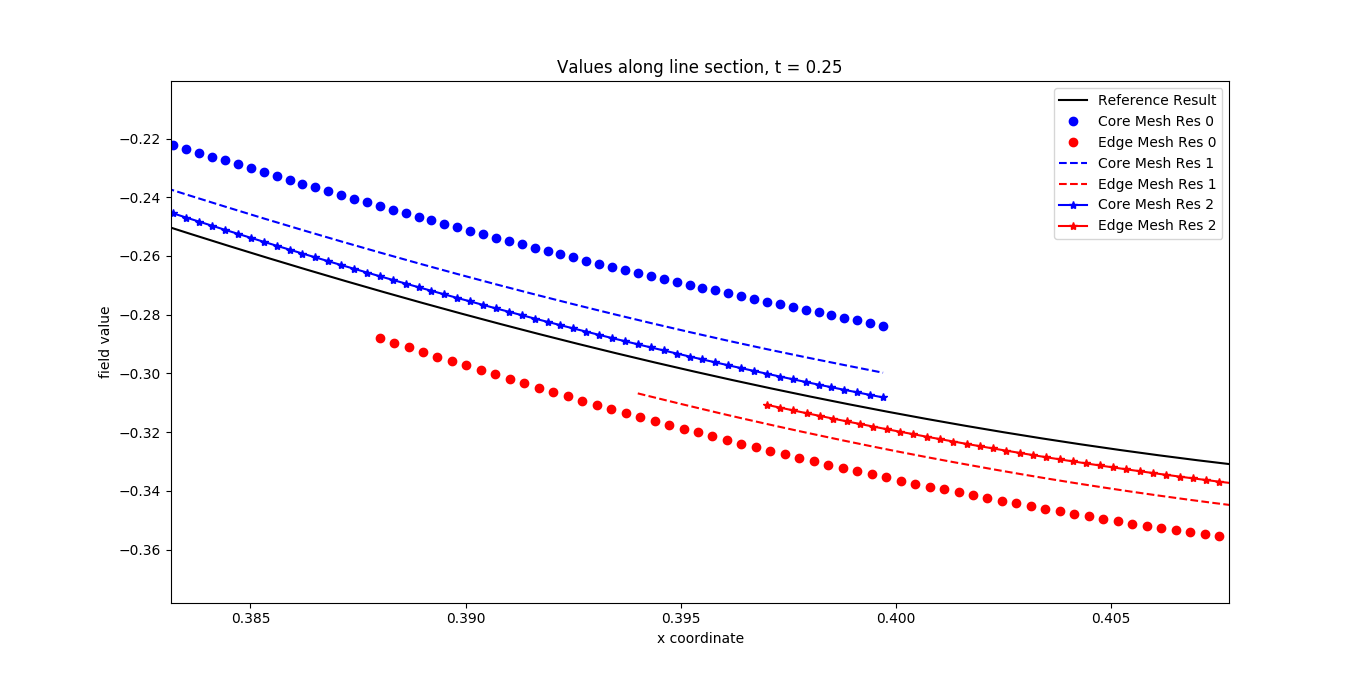
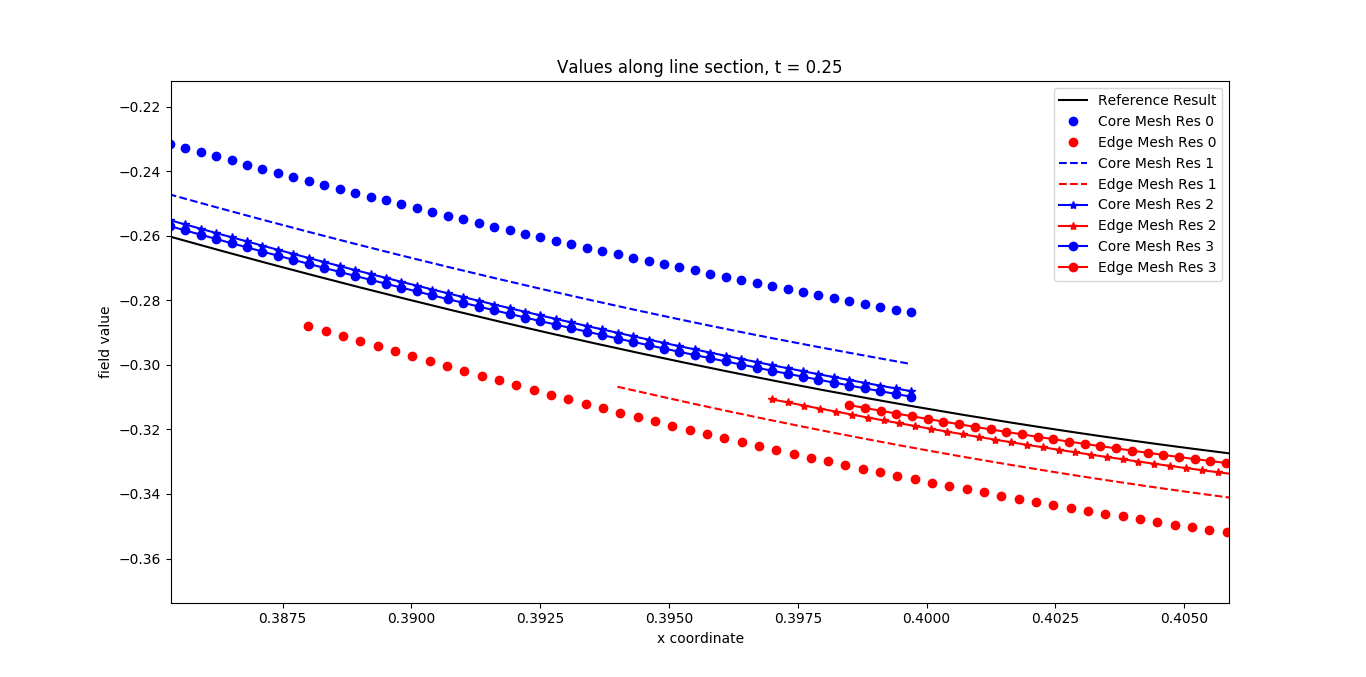
New plots - better results than before

diff --git a/tools/t_0_75_runs/compare_analysis.py b/tools/t_0_75_runs/compare_analysis.py
@@ -49,7 +49,7 @@ def compare_monolithic(res_num, ref_coords, ref_data):
     assert interp_core_f.shape == core_f.shape
 
     print("---------- Monolithic ----------")
-    print("Mesh resolution ({}): Polar result has {} point, PARALLAX result has {} point".format(mesh_res, core_f.size,
+    print("Mesh resolution ({}): Polar result has {} point, PARALLAX result has {} point".format(res_num, core_f.size,
                                                                                                  edge_f.size))
 
     error_edge, ref_sum = 0, 0
@@ -89,7 +89,7 @@ def compare_coupled(res_num, ref_coords, ref_data):
     assert interp_core_f.shape == core_f.shape
 
     print("---------- Coupling ----------")
-    print("Mesh resolution ({}): Polar result has {} point, PARALLAX result has {} point".format(mesh_res, core_f.size,
+    print("Mesh resolution ({}): Polar result has {} point, PARALLAX result has {} point".format(res_num, core_f.size,
                                                                                                  edge_f.size))
 
     # Convert array data to dicts so that reference value can be mapped to points for
@@ -215,11 +215,11 @@ ref_points, ref_field = read_data('./output_ref/polar_ref2.csv')
 print("Reference result has {} points".format(ref_field.size))
 
 # For each mesh resolution, fit data by interpolation and calculate error by L2 norm
-mesh_res = 3
+mesh_res = 4
 
 rmin_core = 0.2
 rmax_core = 0.4
-rmin_edge = [0.388, 0.394, 0.397]
+rmin_edge = [0.388, 0.394, 0.397, 0.3985]
 rmax_edge = 0.5
 
 
@@ -243,7 +243,7 @@ refpts_plot, refv_plot, ref_flux_plot = plot_ref_cross_section(ref_field, ref_po
 # plot
 plt.xlabel('x coordinate')
 plt.ylabel('field value')
-plt.title('Value along line plot, t = 0.75')
+plt.title('Values along line section, t = 0.75')
 
 plt.plot(refpts_plot, refv_plot, 'k-', label="Reference Result", linewidth=1.5)
 
@@ -255,6 +255,10 @@ plt.plot(edgepts_plot[1], edgev_plot[1], 'r--', label="Edge Mesh Res 1")
 
 plt.plot(corepts_plot[2], corev_plot[2], 'b-*', label="Core Mesh Res 2")
 plt.plot(edgepts_plot[2], edgev_plot[2], 'r-*', label="Edge Mesh Res 2")
+
+plt.plot(corepts_plot[3], corev_plot[3], 'b-o', label="Core Mesh Res 3")
+plt.plot(edgepts_plot[3], edgev_plot[3], 'r-o', label="Edge Mesh Res 3")
+
 plt.legend(loc='best')
 plt.show()
 
@@ -278,7 +282,7 @@ for i in range(999):
 
 plt.xlabel('x coordinate')
 plt.ylabel('flux')
-plt.title('Flux along line plot, t = 0.75')
+plt.title('Flux along line section, t = 0.75')
 
 plt.plot(ref_flux_pts, ref_flux_plot, 'k-', label="Reference Result", linewidth=1.5)
 
@@ -290,9 +294,12 @@ plt.plot(edge_flux_pts[1], edge_flux_plot[1], 'r--', label="Edge Mesh Res 1")
 
 plt.plot(core_flux_pts[2], core_flux_plot[2], 'b-*', label="Core Mesh Res 2")
 plt.plot(edge_flux_pts[2], edge_flux_plot[2], 'r-*', label="Edge Mesh Res 2")
+
+plt.plot(core_flux_pts[3], core_flux_plot[3], 'b-o', label="Core Mesh Res 3")
+plt.plot(edge_flux_pts[3], edge_flux_plot[3], 'r-o', label="Edge Mesh Res 3")
+
 plt.legend(loc='best')
 plt.show()
-
 
 err_edge = np.zeros(mesh_res)
 err_core = np.zeros(mesh_res)
@@ -306,9 +313,9 @@ plt.xscale('log')
 plt.yscale('log')
 plt.xlabel('mesh size')
 plt.ylabel('l2 error')
-plt.title('Varying overlap, t = 0.75')
+plt.title('Overlap 2*dx, t = 0.75')
 
-mesh_resolutions = [50, 100, 200]
+mesh_resolutions = [50, 100, 200, 400]
 # # Plot monolithic PARALLAX comparison
 # plt.plot(mesh_resolutions, err_edge, 'rs', label="Edge monolithic", linewidth=2)
 # O1_err_edge = [err_edge[0], err_edge[0]/2, err_edge[0]/4]
@@ -325,9 +332,9 @@ mesh_resolutions = [50, 100, 200]
 
 # Plot PARALLAX - Polar coupled solution comparison
 plt.plot(mesh_resolutions, err_coupling, 'bs', label="Coupling", linewidth=2)
-O1_err_coupling = [err_coupling[0], err_coupling[0]/2, err_coupling[0]/4]
+O1_err_coupling = [err_coupling[0], err_coupling[0]/2, err_coupling[0]/4, err_coupling[0]/8]
 plt.plot(mesh_resolutions, O1_err_coupling, 'b--', label="O(1) Coupling", linewidth=1)
-O2_err_coupling = [err_coupling[0], err_coupling[0]/4, err_coupling[0]/16]
+O2_err_coupling = [err_coupling[0], err_coupling[0]/4, err_coupling[0]/16, err_coupling[0]/64]
 plt.plot(mesh_resolutions, O2_err_coupling, 'b-.', label="O(2) Coupling", linewidth=1)
 
 plt.legend(loc='best')

diff --git a/tools/t_0_50_runs/compare_analysis.py b/tools/t_0_50_runs/compare_analysis.py
@@ -49,7 +49,7 @@ def compare_monolithic(res_num, ref_coords, ref_data):
     assert interp_core_f.shape == core_f.shape
 
     print("---------- Monolithic ----------")
-    print("Mesh resolution ({}): Polar result has {} point, PARALLAX result has {} point".format(mesh_res, core_f.size,
+    print("Mesh resolution ({}): Polar result has {} point, PARALLAX result has {} point".format(res_num, core_f.size,
                                                                                                  edge_f.size))
 
     error_edge, ref_sum = 0, 0
@@ -89,7 +89,7 @@ def compare_coupled(res_num, ref_coords, ref_data):
     assert interp_core_f.shape == core_f.shape
 
     print("---------- Coupling ----------")
-    print("Mesh resolution ({}): Polar result has {} point, PARALLAX result has {} point".format(mesh_res, core_f.size,
+    print("Mesh resolution ({}): Polar result has {} point, PARALLAX result has {} point".format(res_num, core_f.size,
                                                                                                  edge_f.size))
 
     # Convert array data to dicts so that reference value can be mapped to points for
@@ -215,11 +215,11 @@ ref_points, ref_field = read_data('./output_ref/polar_ref2.csv')
 print("Reference result has {} points".format(ref_field.size))
 
 # For each mesh resolution, fit data by interpolation and calculate error by L2 norm
-mesh_res = 3
+mesh_res = 4
 
 rmin_core = 0.2
 rmax_core = 0.4
-rmin_edge = [0.388, 0.394, 0.397]
+rmin_edge = [0.388, 0.394, 0.397, 0.3985]
 rmax_edge = 0.5
 
 
@@ -243,7 +243,7 @@ refpts_plot, refv_plot, ref_flux_plot = plot_ref_cross_section(ref_field, ref_po
 # plot
 plt.xlabel('x coordinate')
 plt.ylabel('field value')
-plt.title('Value along line plot, t = 0.5')
+plt.title('Values along line section, t = 0.5')
 
 plt.plot(refpts_plot, refv_plot, 'k-', label="Reference Result", linewidth=1.5)
 
@@ -255,6 +255,10 @@ plt.plot(edgepts_plot[1], edgev_plot[1], 'r--', label="Edge Mesh Res 1")
 
 plt.plot(corepts_plot[2], corev_plot[2], 'b-*', label="Core Mesh Res 2")
 plt.plot(edgepts_plot[2], edgev_plot[2], 'r-*', label="Edge Mesh Res 2")
+
+plt.plot(corepts_plot[3], corev_plot[3], 'b-o', label="Core Mesh Res 3")
+plt.plot(edgepts_plot[3], edgev_plot[3], 'r-o', label="Edge Mesh Res 3")
+
 plt.legend(loc='best')
 plt.show()
 
@@ -278,7 +282,7 @@ for i in range(999):
 
 plt.xlabel('x coordinate')
 plt.ylabel('flux')
-plt.title('Flux along line plot, t = 0.5')
+plt.title('Flux along line section, t = 0.5')
 
 plt.plot(ref_flux_pts, ref_flux_plot, 'k-', label="Reference Result", linewidth=1.5)
 
@@ -290,9 +294,12 @@ plt.plot(edge_flux_pts[1], edge_flux_plot[1], 'r--', label="Edge Mesh Res 1")
 
 plt.plot(core_flux_pts[2], core_flux_plot[2], 'b-*', label="Core Mesh Res 2")
 plt.plot(edge_flux_pts[2], edge_flux_plot[2], 'r-*', label="Edge Mesh Res 2")
+
+plt.plot(core_flux_pts[3], core_flux_plot[3], 'b-o', label="Core Mesh Res 3")
+plt.plot(edge_flux_pts[3], edge_flux_plot[3], 'r-o', label="Edge Mesh Res 3")
+
 plt.legend(loc='best')
 plt.show()
-
 
 err_edge = np.zeros(mesh_res)
 err_core = np.zeros(mesh_res)
@@ -306,9 +313,9 @@ plt.xscale('log')
 plt.yscale('log')
 plt.xlabel('mesh size')
 plt.ylabel('l2 error')
-plt.title('Varying overlap, t = 0.5')
+plt.title('Overlap 2*dx, t = 0.5')
 
-mesh_resolutions = [50, 100, 200]
+mesh_resolutions = [50, 100, 200, 400]
 # # Plot monolithic PARALLAX comparison
 # plt.plot(mesh_resolutions, err_edge, 'rs', label="Edge monolithic", linewidth=2)
 # O1_err_edge = [err_edge[0], err_edge[0]/2, err_edge[0]/4]
@@ -325,9 +332,9 @@ mesh_resolutions = [50, 100, 200]
 
 # Plot PARALLAX - Polar coupled solution comparison
 plt.plot(mesh_resolutions, err_coupling, 'bs', label="Coupling", linewidth=2)
-O1_err_coupling = [err_coupling[0], err_coupling[0]/2, err_coupling[0]/4]
+O1_err_coupling = [err_coupling[0], err_coupling[0]/2, err_coupling[0]/4, err_coupling[0]/8]
 plt.plot(mesh_resolutions, O1_err_coupling, 'b--', label="O(1) Coupling", linewidth=1)
-O2_err_coupling = [err_coupling[0], err_coupling[0]/4, err_coupling[0]/16]
+O2_err_coupling = [err_coupling[0], err_coupling[0]/4, err_coupling[0]/16, err_coupling[0]/64]
 plt.plot(mesh_resolutions, O2_err_coupling, 'b-.', label="O(2) Coupling", linewidth=1)
 
 plt.legend(loc='best')

diff --git a/tools/t_0_25_runs/compare_analysis.py b/tools/t_0_25_runs/compare_analysis.py
@@ -215,11 +215,11 @@ ref_points, ref_field = read_data('./output_ref/polar_ref2.csv')
 print("Reference result has {} points".format(ref_field.size))
 
 # For each mesh resolution, fit data by interpolation and calculate error by L2 norm
-mesh_res = 3
+mesh_res = 4
 
 rmin_core = 0.2
 rmax_core = 0.4
-rmin_edge = [0.388, 0.394, 0.397]
+rmin_edge = [0.388, 0.394, 0.397, 0.3985]
 rmax_edge = 0.5
 
 
@@ -255,6 +255,10 @@ plt.plot(edgepts_plot[1], edgev_plot[1], 'r--', label="Edge Mesh Res 1")
 
 plt.plot(corepts_plot[2], corev_plot[2], 'b-*', label="Core Mesh Res 2")
 plt.plot(edgepts_plot[2], edgev_plot[2], 'r-*', label="Edge Mesh Res 2")
+
+plt.plot(corepts_plot[3], corev_plot[3], 'b-o', label="Core Mesh Res 3")
+plt.plot(edgepts_plot[3], edgev_plot[3], 'r-o', label="Edge Mesh Res 3")
+
 plt.legend(loc='best')
 plt.show()
 
@@ -290,16 +294,19 @@ plt.plot(edge_flux_pts[1], edge_flux_plot[1], 'r--', label="Edge Mesh Res 1")
 
 plt.plot(core_flux_pts[2], core_flux_plot[2], 'b-*', label="Core Mesh Res 2")
 plt.plot(edge_flux_pts[2], edge_flux_plot[2], 'r-*', label="Edge Mesh Res 2")
+
+plt.plot(core_flux_pts[3], core_flux_plot[3], 'b-o', label="Core Mesh Res 3")
+plt.plot(edge_flux_pts[3], edge_flux_plot[3], 'r-o', label="Edge Mesh Res 3")
+
 plt.legend(loc='best')
 plt.show()
-
 
 err_edge = np.zeros(mesh_res)
 err_core = np.zeros(mesh_res)
 err_coupling = np.zeros(mesh_res)
 for res in range(mesh_res):
     print("Comparing mesh resolution number: {}".format(res))
-    err_edge[res], err_core[res] = compare_monolithic(res, ref_points, ref_field)
+    # err_edge[res], err_core[res] = compare_monolithic(res, ref_points, ref_field)
     err_coupling[res] = compare_coupled(res, ref_points, ref_field)
 
 plt.xscale('log')
@@ -308,26 +315,26 @@ plt.xlabel('mesh size')
 plt.ylabel('l2 error')
 plt.title('Overlap 2*dx, t = 0.25')
 
-mesh_resolutions = [50, 100, 200]
-# Plot monolithic PARALLAX comparison
-plt.plot(mesh_resolutions, err_edge, 'rs', label="Edge monolithic", linewidth=2)
-O1_err_edge = [err_edge[0], err_edge[0]/2, err_edge[0]/4]
-plt.plot(mesh_resolutions, O1_err_edge, 'r--', label="O(1) Edge", linewidth=1)
-O2_err_edge = [err_edge[0], err_edge[0]/4, err_edge[0]/16]
-plt.plot(mesh_resolutions, O2_err_edge, 'r-.', label="O(2) Edge", linewidth=1)
-
-# Plot monolithic Polar code comparison
-plt.plot(mesh_resolutions, err_core, 'gs', label="Core monolithic", linewidth=2)
-O1_err_core = [err_core[0], err_core[0]/2, err_core[0]/4]
-plt.plot(mesh_resolutions, O1_err_core, 'g--', label="O(1) Core", linewidth=1)
-O2_err_core = [err_core[0], err_core[0]/4, err_core[0]/16]
-plt.plot(mesh_resolutions, O2_err_core, 'g-.', label="O(2) Core", linewidth=1)
+mesh_resolutions = [50, 100, 200, 400]
+# # Plot monolithic PARALLAX comparison
+# plt.plot(mesh_resolutions, err_edge, 'rs', label="Edge monolithic", linewidth=2)
+# O1_err_edge = [err_edge[0], err_edge[0]/2, err_edge[0]/4]
+# plt.plot(mesh_resolutions, O1_err_edge, 'r--', label="O(1) Edge", linewidth=1)
+# O2_err_edge = [err_edge[0], err_edge[0]/4, err_edge[0]/16]
+# plt.plot(mesh_resolutions, O2_err_edge, 'r-.', label="O(2) Edge", linewidth=1)
+#
+# # Plot monolithic Polar code comparison
+# plt.plot(mesh_resolutions, err_core, 'gs', label="Core monolithic", linewidth=2)
+# O1_err_core = [err_core[0], err_core[0]/2, err_core[0]/4]
+# plt.plot(mesh_resolutions, O1_err_core, 'g--', label="O(1) Core", linewidth=1)
+# O2_err_core = [err_core[0], err_core[0]/4, err_core[0]/16]
+# plt.plot(mesh_resolutions, O2_err_core, 'g-.', label="O(2) Core", linewidth=1)
 
 # Plot PARALLAX - Polar coupled solution comparison
 plt.plot(mesh_resolutions, err_coupling, 'bs', label="Coupling", linewidth=2)
-O1_err_coupling = [err_coupling[0], err_coupling[0]/2, err_coupling[0]/4]
+O1_err_coupling = [err_coupling[0], err_coupling[0]/2, err_coupling[0]/4, err_coupling[0]/8]
 plt.plot(mesh_resolutions, O1_err_coupling, 'b--', label="O(1) Coupling", linewidth=1)
-O2_err_coupling = [err_coupling[0], err_coupling[0]/4, err_coupling[0]/16]
+O2_err_coupling = [err_coupling[0], err_coupling[0]/4, err_coupling[0]/16, err_coupling[0]/64]
 plt.plot(mesh_resolutions, O2_err_coupling, 'b-.', label="O(2) Coupling", linewidth=1)
 
 plt.legend(loc='best')
